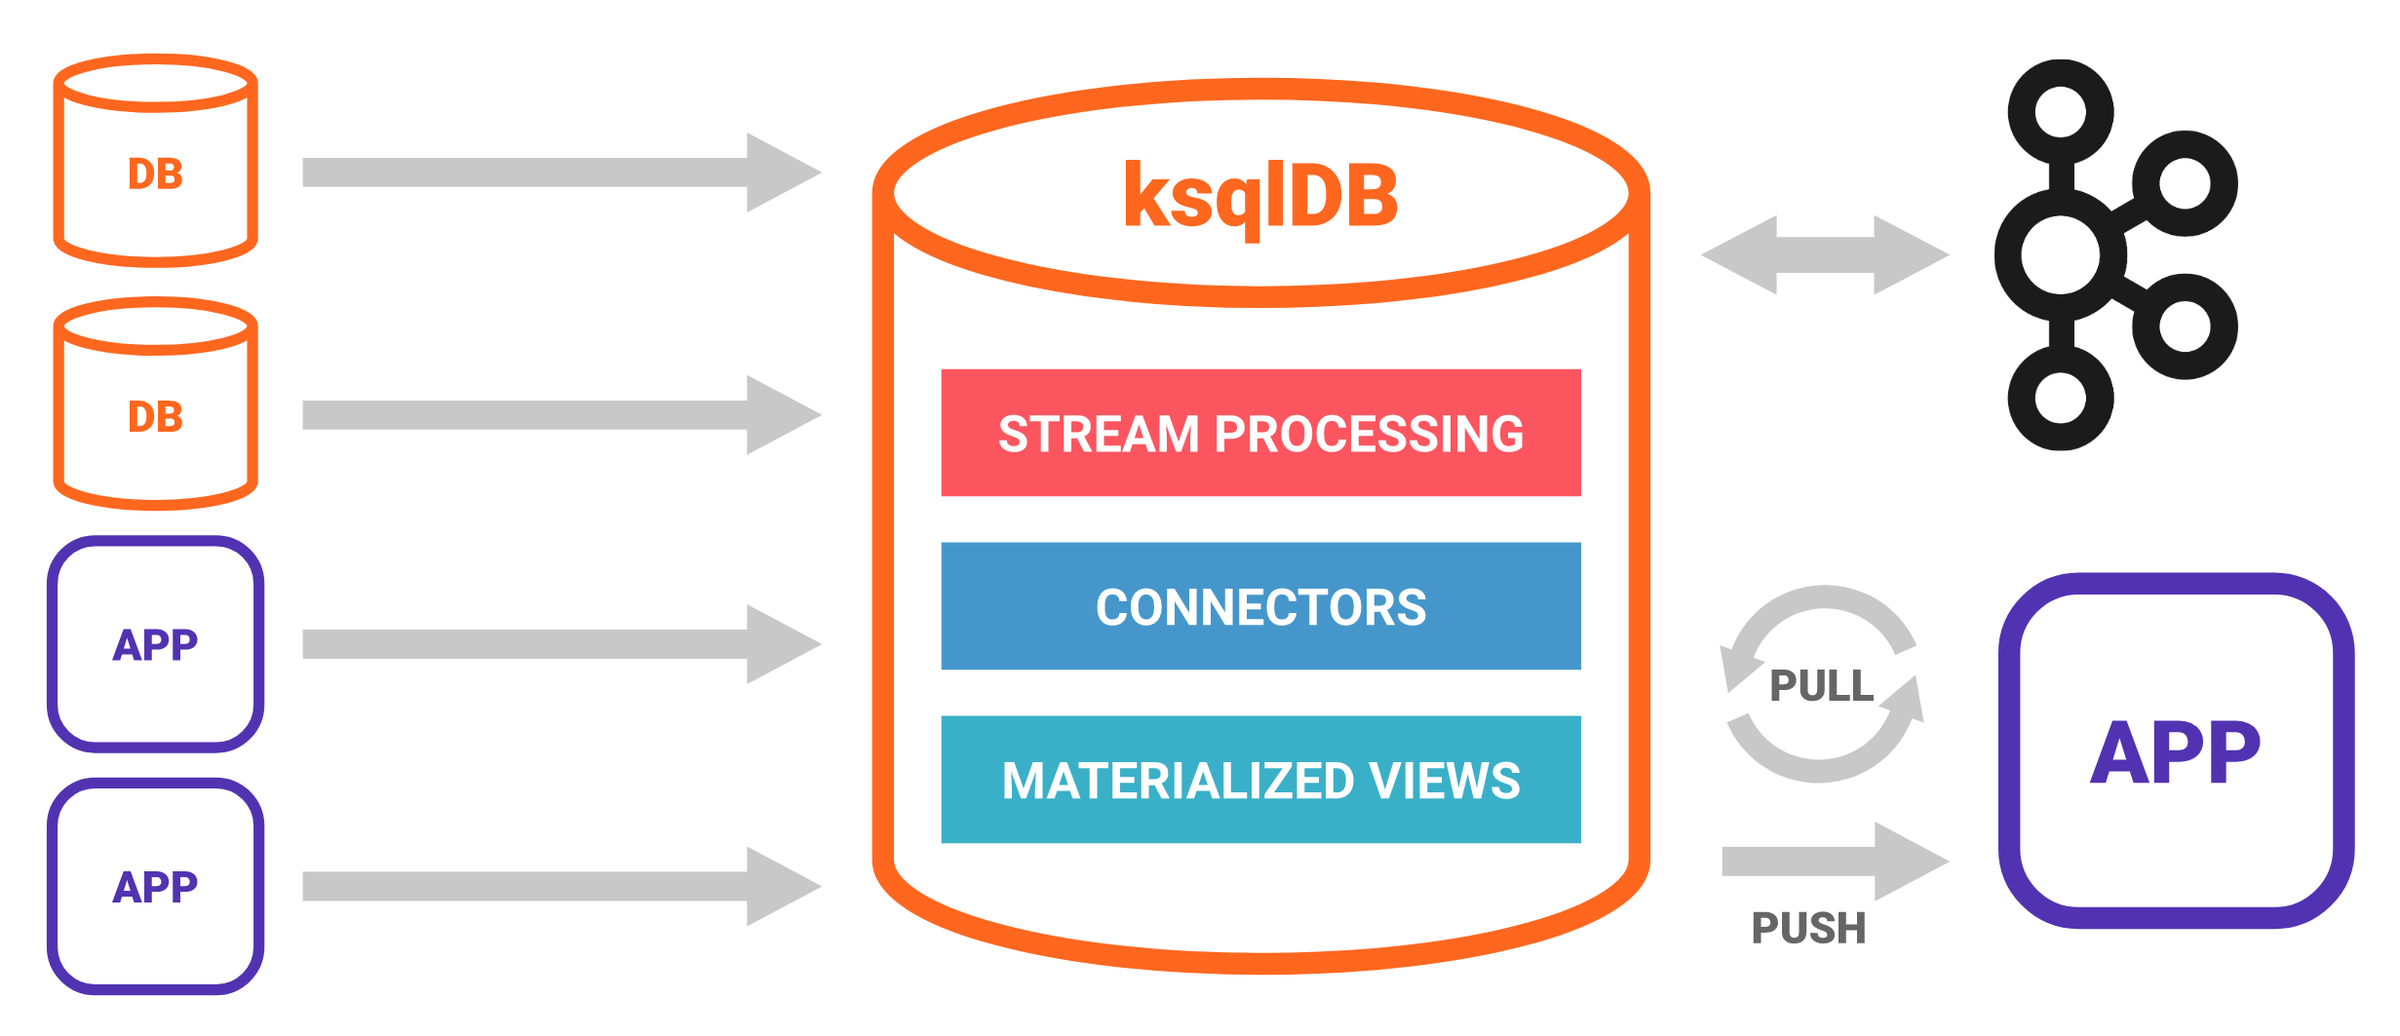
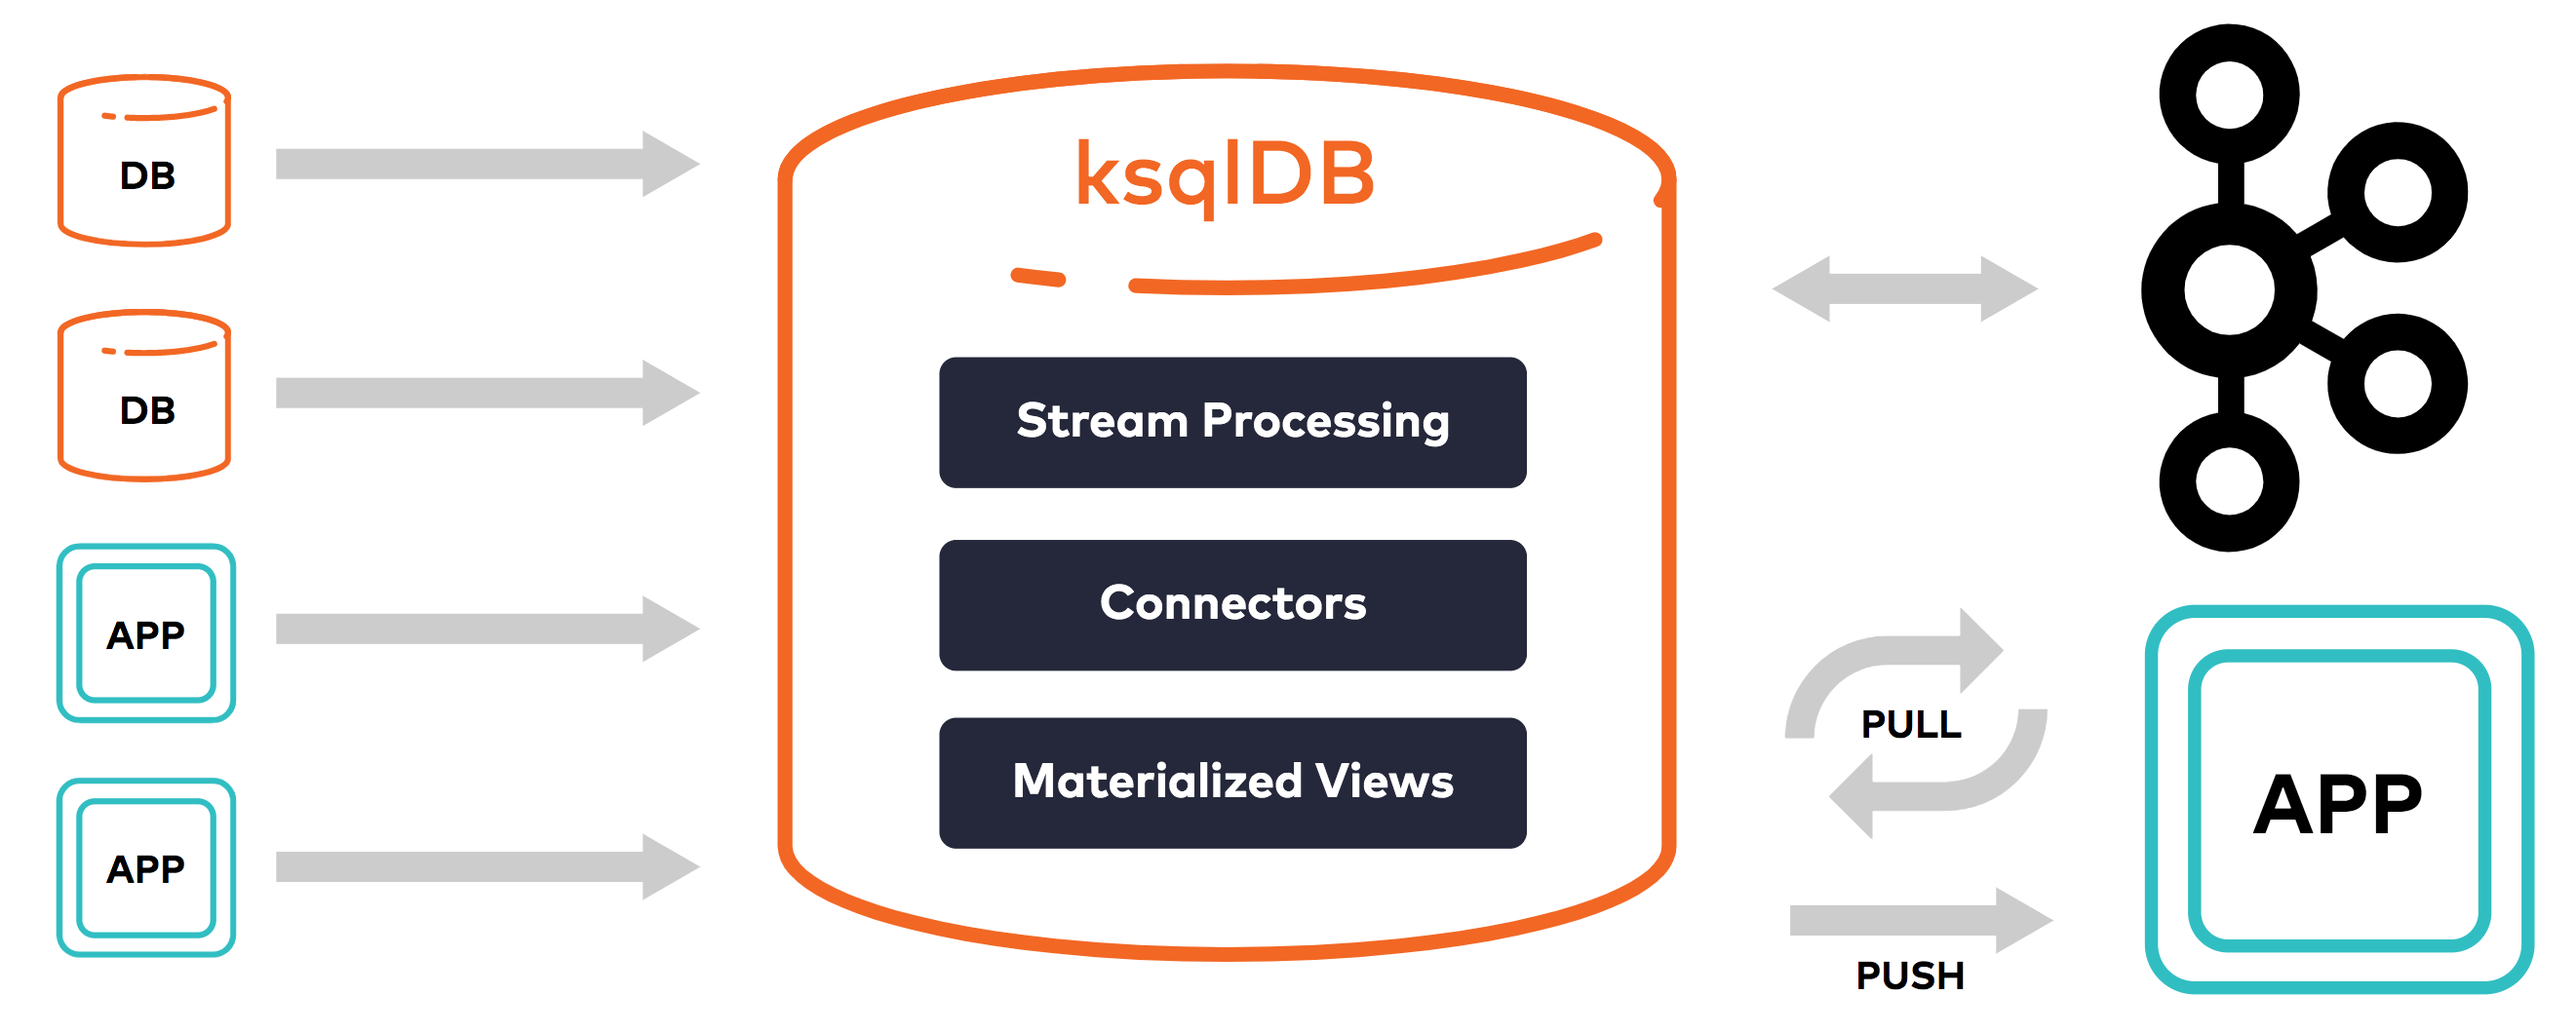
docs: update graphics in ksqlDB docs (DOCS-2880)

Changed region(s): [[0.0, 0.0311, 0.9878, 0.9651]]

diff --git a/docs-md/concepts/stream-processing.md b/docs-md/concepts/stream-processing.md
@@ -6,6 +6,8 @@ description: Learn about processing events by using ksqlDB collections.
 keywords: ksqldb, collection, query
 ---
 
+![Illustration of stream processing, showing input and output streams](../img/ksqldb-stream-processing-io.png)
+
 Creating a collection with an enforced schema over a new or existing
 {{ site.aktm }} topic is useful but has limited utility by itself for creating
 an application. When you declare a collection, you can only work with the
@@ -144,3 +146,5 @@ CREATE STREAM clicked_impressions AS
 Any time an `impressions` row is received, followed within one minute by a
 `clicks` row having the same `user`, a row is emitted into the
 `clicked_impressions` stream.
+
+Page last revised on: {{ git_revision_date }}

diff --git a/docs-md/concepts/connectors.md b/docs-md/concepts/connectors.md
@@ -5,6 +5,8 @@ tagline: Connect your ksqlDB applications to event sources
 description: Learn how to integrate your ksqlDB applications with Kafka connectors.
 ---
 
+![Illustration of a push query](../img/ksqldb-connectors.png)
+
 {{ site.kconnectlong }} is an open source component of {{ site.aktm }} that
 simplifies loading and exporting data between Kafka and external systems.
 ksqlDB provides functionality to manage and integrate with {{ site.kconnect }}:

diff --git a/docs-md/concepts/queries/push.md b/docs-md/concepts/queries/push.md
@@ -6,7 +6,7 @@ description: Learn about continuously updated queries by using the SELECT statem
 keywords: ksqldb, push, query, select
 ---
 
-![Illustration of a push query](../../img/ksqldb-push-query.png)
+![Illustration of a push query](../../img/ksqldb-push-query.svg)
 
 Push queries are a form of query issued by a client that subscribe to a result
 as it changes in real-time. A good example of a push query is subscribing to a

diff --git a/docs-md/concepts/queries/pull.md b/docs-md/concepts/queries/pull.md
@@ -6,7 +6,7 @@ description: Learn how to use point-in-time queries by using the SELECT statemen
 keywords: ksqldb, pull, query, select
 ---
 
-![Illustration of a pull query](../../img/ksqldb-pull-query.png)
+![Illustration of a pull query](../../img/ksqldb-pull-query.svg)
 
 Pull queries are a form of query issued by a client that retrieve a result as
 of "now". As a dual to the push query example, a pull query for a credit score

diff --git a/docs-md/concepts/events.md b/docs-md/concepts/events.md
@@ -51,3 +51,5 @@ relational database. Each row is composed of a series of columns. Most columns
 represent fields in the value of an event, but there are a few extra columns.
 In particular, there are the `ROWKEY` and `ROWTIME` columns that represent the
 key and time of the event. These columns are present on every row.
+
+Page last revised on: {{ git_revision_date }}

diff --git a/docs-md/concepts/collections/inserting-events.md b/docs-md/concepts/collections/inserting-events.md
@@ -39,3 +39,5 @@ required when you omit the column specifications.
 
 For more information, see
 [INSERT INTO VALUES](../../developer-guide/ksqldb-reference/insert-values.md).
+
+Page last revised on: {{ git_revision_date }}
